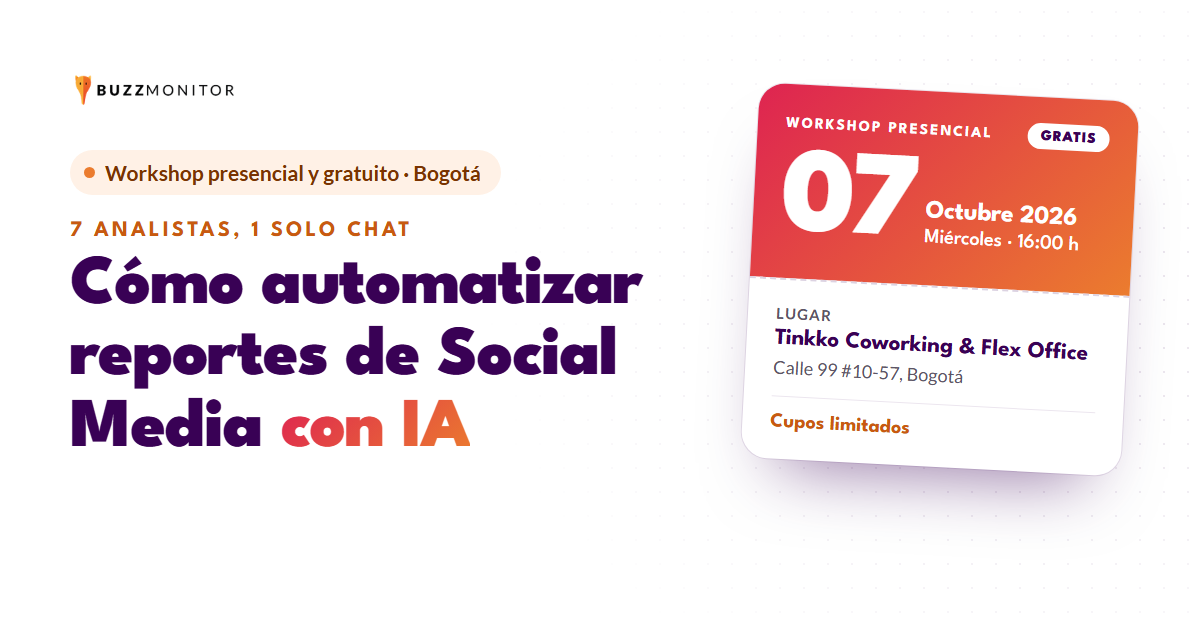
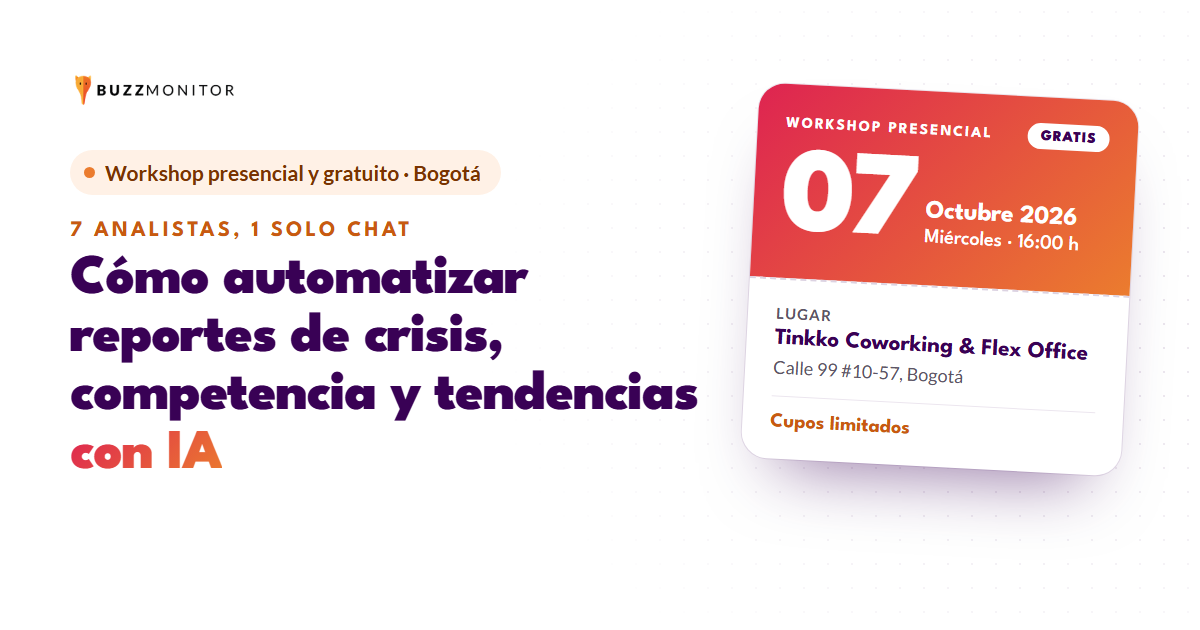
Ampliar titulo da LP do workshop de reportes para crisis, competencia e tendencias (#665)

Changed region(s): [[0.0617, 0.3921, 0.5858, 0.754]]

diff --git a/landing-pages/buzzmonitor/workshop-reportes-ia-octubre-2026-latam/index.html b/landing-pages/buzzmonitor/workshop-reportes-ia-octubre-2026-latam/index.html
@@ -12,13 +12,13 @@ j=d.createElement(s),dl=l!='dataLayer'?'&l='+l:'';j.async=true;j.src=
 })(window,document,'script','dataLayer','GTM-MKQBX2MG');</script>
 <!-- End Google Tag Manager -->
 
-<title>Cómo automatizar reportes de Social Media con IA: workshop gratuito en Bogotá</title>
+<title>Cómo automatizar reportes de crisis, competencia y tendencias con IA</title>
 
 <link rel="canonical" href="https://evento.buzzmonitor.com/workshop-reportes-ia-octubre-2026-latam" />
 <link rel="alternate" hreflang="es-419" href="https://evento.buzzmonitor.com/workshop-reportes-ia-octubre-2026-latam" />
 <link rel="alternate" hreflang="x-default" href="https://evento.buzzmonitor.com/workshop-reportes-ia-octubre-2026-latam" />
 
-<meta name="description" content="Workshop presencial y gratuito en Bogotá, 7 de octubre: aprende a automatizar reportes de Social Media con Claude y las 7 Skills de Buzzmonitor, sin escribir prompts." />
+<meta name="description" content="Workshop presencial y gratuito en Bogotá, 7 de octubre: arma reportes de crisis, competencia y tendencias con Claude y las Skills de Buzzmonitor, sin escribir prompts." />
 <meta name="robots" content="index, follow" />
 <meta name="author" content="Buzzmonitor" />
 
@@ -26,16 +26,16 @@ j=d.createElement(s),dl=l!='dataLayer'?'&l='+l:'';j.async=true;j.src=
 <meta property="og:site_name" content="Buzzmonitor" />
 <meta property="og:locale" content="es_LA" />
 <meta property="og:url" content="https://evento.buzzmonitor.com/workshop-reportes-ia-octubre-2026-latam" />
-<meta property="og:title" content="Cómo automatizar reportes de Social Media con IA: workshop gratuito en Bogotá" />
-<meta property="og:description" content="Presencial y gratuito, 7 de octubre en Bogotá. Automatiza tus reportes de Social Media con Claude y las Skills de Buzzmonitor." />
+<meta property="og:title" content="Cómo automatizar reportes de crisis, competencia y tendencias con IA" />
+<meta property="og:description" content="Workshop presencial y gratuito en Bogotá, 7 de octubre. Reportes de crisis, competencia y tendencias con Claude y Buzzmonitor." />
 <meta property="og:image" content="https://evento.buzzmonitor.com/assets/buzzmonitor/og-workshop-reportes-ia-octubre-2026-latam.png" />
 <meta property="og:image:width" content="1200" />
 <meta property="og:image:height" content="630" />
-<meta property="og:image:alt" content="Cómo automatizar reportes de Social Media con IA: workshop presencial y gratuito de Buzzmonitor en Bogotá, 7 de octubre" />
+<meta property="og:image:alt" content="Cómo automatizar reportes de crisis, competencia y tendencias con IA: workshop presencial y gratuito de Buzzmonitor en Bogotá, 7 de octubre" />
 
 <meta name="twitter:card" content="summary_large_image" />
-<meta name="twitter:title" content="Cómo automatizar reportes de Social Media con IA: workshop gratuito en Bogotá" />
-<meta name="twitter:description" content="Presencial y gratuito, 7 de octubre en Bogotá. Automatiza tus reportes de Social Media con Claude y las Skills de Buzzmonitor." />
+<meta name="twitter:title" content="Cómo automatizar reportes de crisis, competencia y tendencias con IA" />
+<meta name="twitter:description" content="Workshop presencial y gratuito en Bogotá, 7 de octubre. Reportes de crisis, competencia y tendencias con Claude y Buzzmonitor." />
 <meta name="twitter:image" content="https://evento.buzzmonitor.com/assets/buzzmonitor/og-workshop-reportes-ia-octubre-2026-latam.png" />
 
 <script type="application/ld+json">
@@ -57,15 +57,15 @@ j=d.createElement(s),dl=l!='dataLayer'?'&l='+l:'';j.async=true;j.src=
       "@type": "WebPage",
       "@id": "https://evento.buzzmonitor.com/workshop-reportes-ia-octubre-2026-latam#webpage",
       "url": "https://evento.buzzmonitor.com/workshop-reportes-ia-octubre-2026-latam",
-      "name": "Cómo automatizar reportes de Social Media con IA: workshop gratuito en Bogotá",
+      "name": "Cómo automatizar reportes de crisis, competencia y tendencias con IA",
       "inLanguage": "es-419",
       "isPartOf": { "@id": "https://getbuzzmonitor.com/es/#organization" },
-      "description": "Workshop presencial y gratuito en Bogotá, 7 de octubre: aprende a automatizar reportes de Social Media con Claude y las 7 Skills de Buzzmonitor, sin escribir prompts."
+      "description": "Workshop presencial y gratuito en Bogotá, 7 de octubre: arma reportes de crisis, competencia y tendencias con Claude y las Skills de Buzzmonitor, sin escribir prompts."
     },
     {
       "@type": "Event",
-      "name": "Cómo automatizar reportes de Social Media con IA",
-      "description": "Workshop 7 analistas, 1 solo chat: automatiza reportes de Social Media con Claude y las Skills de Buzzmonitor. Taller presencial, gratuito y hands-on.",
+      "name": "Cómo automatizar reportes de crisis, competencia y tendencias con IA",
+      "description": "Workshop 7 analistas, 1 solo chat: automatiza reportes de crisis, competencia y tendencias con Claude y las Skills de Buzzmonitor. Taller presencial, gratuito y hands-on.",
       "startDate": "2026-10-07T16:00:00-05:00",
       "eventAttendanceMode": "https://schema.org/OfflineEventAttendanceMode",
       "eventStatus": "https://schema.org/EventScheduled",
@@ -129,7 +129,7 @@ j=d.createElement(s),dl=l!='dataLayer'?'&l='+l:'';j.async=true;j.src=
   p{ margin:0; }
   a{ color:inherit; }
 
-  h1,h2,h3,.hero__sub,.lede,.problem-list li,.step p,.analyst p,.round p,.speaker__bio,.chip,.cierre p,.reg-list li,.overline,.facts li,.quien-note{ text-wrap:balance; }
+  h1,h2,h3,.hero__h2,.hero__sub,.lede,.problem-list li,.step p,.analyst p,.round p,.speaker__bio,.chip,.cierre p,.reg-list li,.overline,.facts li,.quien-note{ text-wrap:balance; }
   .problem-close,.skills__intro{ text-wrap:pretty; }
 
   .wrap{ width:min(1180px, 100% - 48px); margin-inline:auto; }
@@ -162,17 +162,18 @@ j=d.createElement(s),dl=l!='dataLayer'?'&l='+l:'';j.async=true;j.src=
   @media (max-width:760px){ .navbar__tag{ display:none; } }
 
   /* ============ HERO ============ */
-  .hero{ position:relative; overflow:hidden; padding-block:80px 140px; }
+  .hero{ position:relative; overflow:hidden; padding-block:40px 130px; }
   .hero::before{ content:""; position:absolute; inset:0; background-image:radial-gradient(circle, rgba(57,1,85,.09) 1.2px, transparent 1.3px); background-size:22px 22px; -webkit-mask-image:radial-gradient(ellipse 70% 80% at 85% 40%, #000 20%, transparent 75%); mask-image:radial-gradient(ellipse 70% 80% at 85% 40%, #000 20%, transparent 75%); pointer-events:none; }
   .hero__layout{ position:relative; display:grid; grid-template-columns:1.1fr .9fr; gap:72px; align-items:center; }
   .badge{ display:inline-flex; align-items:center; gap:10px; background:#FFF1E6; color:#7A3300; font-weight:700; font-size:15px; padding:9px 16px 9px 12px; border-radius:999px; white-space:nowrap; }
   .badge__dot{ width:9px; height:9px; border-radius:50%; background:var(--orange); box-shadow:0 0 0 0 rgba(235,124,46,.55); animation:pulse 2s infinite; flex:none; }
   @keyframes pulse{ 0%{ box-shadow:0 0 0 0 rgba(235,124,46,.55);} 70%{ box-shadow:0 0 0 10px rgba(235,124,46,0);} 100%{ box-shadow:0 0 0 0 rgba(235,124,46,0);} }
-  .overline{ display:block; margin-top:28px; font-family:var(--ff-display); font-weight:700; font-size:18px; letter-spacing:.14em; text-transform:uppercase; color:var(--orange-deep); }
-  .hero h1{ margin-top:14px; font-weight:900; font-size:clamp(40px, 4.9vw, 66px); }
+  .overline{ display:block; margin-top:22px; font-family:var(--ff-display); font-weight:700; font-size:18px; letter-spacing:.14em; text-transform:uppercase; color:var(--orange-deep); }
+  .hero h1{ margin-top:10px; font-weight:900; font-size:clamp(36px, 4.2vw, 58px); }
+  .hero__h2{ margin-top:20px; font-family:var(--ff-display); font-weight:700; font-size:clamp(22px, 2vw, 27px); line-height:1.25; letter-spacing:-0.01em; color:var(--ink); max-width:580px; }
   .hero h1 .hl{ background:var(--grad); -webkit-background-clip:text; background-clip:text; color:transparent; }
-  .hero__sub{ margin-top:24px; font-size:clamp(18px, 1.7vw, 21px); color:var(--ink-soft); max-width:560px; }
-  .hero__cta{ margin-top:36px; display:flex; flex-wrap:wrap; align-items:center; gap:18px 22px; }
+  .hero__sub{ margin-top:14px; font-size:clamp(18px, 1.7vw, 21px); color:var(--ink-soft); max-width:560px; }
+  .hero__cta{ margin-top:30px; display:flex; flex-wrap:wrap; align-items:center; gap:18px 22px; }
   .hero__note{ display:flex; align-items:center; gap:8px; font-size:15px; font-weight:700; color:var(--ink-soft); }
   .hero__note svg{ flex:none; }
 
@@ -364,8 +365,9 @@ height="0" width="0" style="display:none;visibility:hidden"></iframe></noscript>
       <div class="hero-content reveal">
         <span class="badge"><span class="badge__dot" aria-hidden="true"></span>Workshop presencial y gratuito · Bogotá</span>
         <span class="overline">7 analistas, 1 solo chat</span>
-        <h1 id="hero-title">Cómo automatizar reportes de Social Media <span class="hl">con IA</span></h1>
-        <p class="hero__sub">Pide el reporte en lenguaje natural y recibe el análisis de campañas, crisis, competencia y tendencias con Claude y las Skills de Buzzmonitor. Sin escribir un solo prompt.</p>
+        <h1 id="hero-title">Cómo automatizar reportes de crisis, competencia y tendencias <span class="hl">con IA</span></h1>
+        <h2 class="hero__h2">El reporte que te toma una tarde, hazlo frente a todos en lo que dura un café.</h2>
+        <p class="hero__sub">Nada de teoría ni de diapositivas: te sientas, le preguntas, y el análisis de crisis, competencia y tendencias aparece armado. Con Claude y las Skills de Buzzmonitor.</p>
         <div class="hero__cta">
           <a href="#registro" class="btn btn--primary">Reservar mi lugar
             <svg width="18" height="18" viewBox="0 0 24 24" fill="none" aria-hidden="true"><path d="M5 12h14M13 6l6 6-6 6" stroke="currentColor" stroke-width="2.2" stroke-linecap="round" stroke-linejoin="round"/></svg>
@@ -383,7 +385,7 @@ height="0" width="0" style="display:none;visibility:hidden"></iframe></noscript>
         <div class="win">
           <div class="win__bar"><i></i><i></i><i></i><span>Claude + Buzzmonitor</span></div>
           <div class="win__body">
-            <p class="msg">Genera el reporte de septiembre de mi marca en Instagram.</p>
+            <p class="msg">Genera el reporte de crisis de mi marca de esta semana.</p>
             <div class="report">
               <div class="report__head"><span class="report__ok"><svg width="13" height="13" viewBox="0 0 24 24" fill="none"><path d="M4 12.5L9.5 18L20 6.5" stroke="#1F8A4C" stroke-width="3" stroke-linecap="round" stroke-linejoin="round"/></svg></span>Reporte listo</div>
               <div class="bars">
@@ -427,7 +429,7 @@ height="0" width="0" style="display:none;visibility:hidden"></iframe></noscript>
     <div class="wrap prob-grid">
       <div class="section-head reveal">
         <span class="kicker" aria-hidden="true"></span>
-        <h2 id="problema-title">El reporte de Social Media todavía se arma a mano</h2>
+        <h2 id="problema-title">Tus reportes todavía se arman a mano</h2>
       </div>
       <div class="reveal">
         <ul class="problem-list">

diff --git a/landing-pages/buzzmonitor/workshop-reportes-ia-octubre-2026-latam/README.md b/landing-pages/buzzmonitor/workshop-reportes-ia-octubre-2026-latam/README.md
@@ -1,6 +1,6 @@
 # LP Buzzmonitor · workshop-reportes-ia-octubre-2026-latam
 
-**Evento:** Workshop "Cómo automatizar reportes de Social Media con IA" (7 analistas, 1 solo chat) · presencial y gratuito · miércoles 7 de octubre de 2026, 16:00 h (Bogotá, UTC-5)
+**Evento:** Workshop "Cómo automatizar reportes de crisis, competencia y tendencias con IA" (7 analistas, 1 solo chat) · presencial y gratuito · miércoles 7 de octubre de 2026, 16:00 h (Bogotá, UTC-5)
 **Local:** Tinkko Coworking & Flex Office – Edificio Ecotek · Calle 99 #10-57, Bogotá, Colombia
 **Speaker:** Juan Diego Forero, Business Development Representative (foto reaproveitada de `buzzmonitor-connect-julio-2026-latam`)
 **Regiao:** LATAM (es-419) · GTM `GTM-MKQBX2MG`
@@ -20,7 +20,7 @@
 
 | # | Secao | Fundo |
 |---|---|---|
-| 1 | Hero: badge presencial/gratuito, H1 "Cómo automatizar reportes de Social Media con IA", CTA, linha de fatos (data, local, gratis) + mock chat→reporte | branco |
+| 1 | Hero: badge presencial/gratuito, H1 "Cómo automatizar reportes de crisis, competencia y tendencias con IA", H2 + sub do Victor, CTA, linha de fatos (data, local, gratis) + mock chat→reporte | branco |
 | 2 | Registro + Jotform (ToFu → form na 2.a secao, GUIDELINES §10) | off-white |
 | 3 | Problema (4 X vermelhos) | branco |
 | 4 | Skills: 3 passos | off-white |
